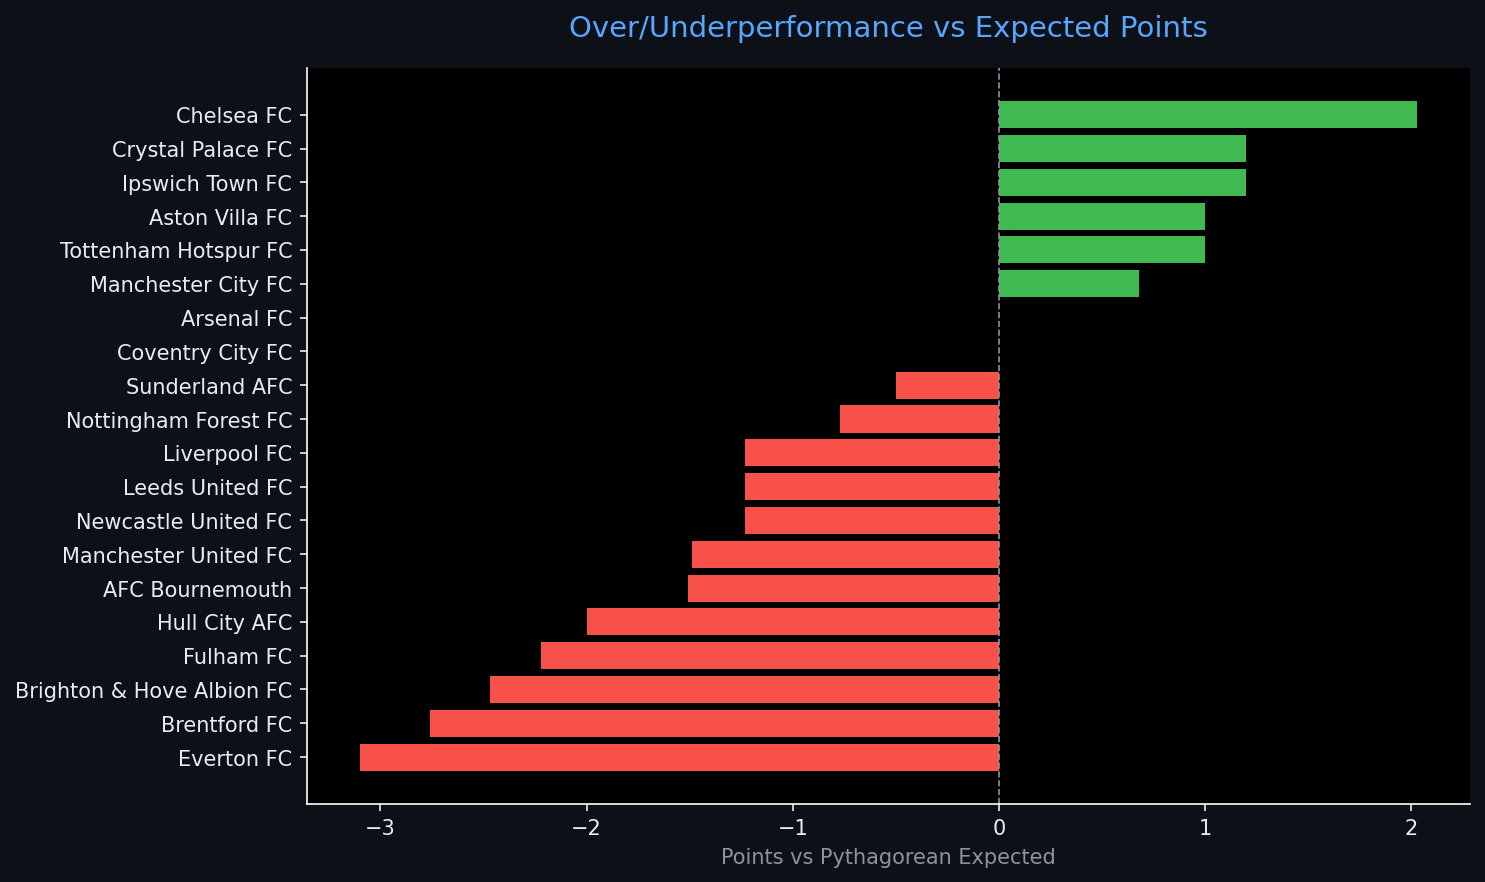
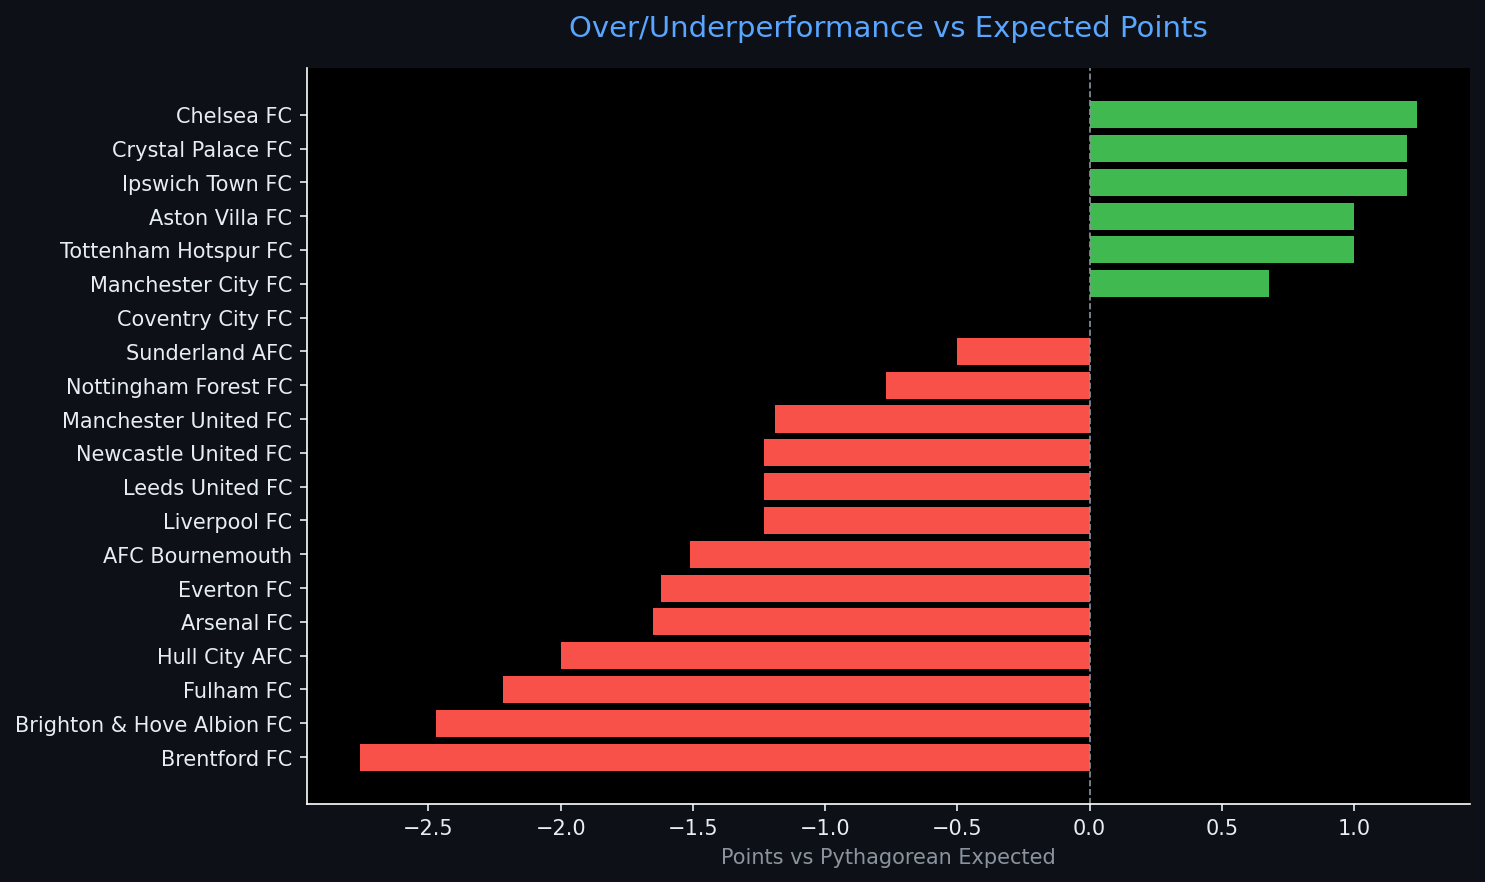
Automated ETL data update: 2026-09-06 16:38

diff --git a/reports/pipeline_report.html b/reports/pipeline_report.html
@@ -4,7 +4,7 @@
 <head>
     <meta charset="UTF-8">
     <meta name="viewport" content="width=device-width, initial-scale=1.0">
-    <title>Sports Data Pipeline Report — 2026-09-06 13:19</title>
+    <title>Sports Data Pipeline Report — 2026-09-06 16:38</title>
     <style>
         body { font-family: 'Segoe UI', sans-serif; background: #0d1117; color: #e6edf3; margin: 0; padding: 2rem; }
         h1   { color: #58a6ff; border-bottom: 1px solid #30363d; padding-bottom: 0.5rem; }
@@ -20,7 +20,7 @@
 </head>
 <body>
     <h1>⚽ Sports Data Pipeline — Automated Report</h1>
-    <p class="meta">Generated: 2026-09-06 13:19 UTC &nbsp;|&nbsp; Sport: <strong>football</strong> &nbsp;|&nbsp; Rows: <strong>20</strong></p>
+    <p class="meta">Generated: 2026-09-06 16:38 UTC &nbsp;|&nbsp; Sport: <strong>football</strong> &nbsp;|&nbsp; Rows: <strong>20</strong></p>
     <span class="badge">Pipeline v1.0.0</span>
     <h2>📊 Data Table</h2>
     <table class="dataframe data-table">
@@ -59,6 +59,21 @@
     </tr>
     <tr>
       <td>2</td>
+      <td>Arsenal FC</td>
+      <td>3</td>
+      <td>7</td>
+      <td>2</td>
+      <td>1</td>
+      <td>0</td>
+      <td>5</td>
+      <td>1</td>
+      <td>0.667</td>
+      <td>2.333</td>
+      <td>0.962</td>
+      <td>NaN</td>
+    </tr>
+    <tr>
+      <td>3</td>
       <td>Hull City AFC</td>
       <td>3</td>
       <td>7</td>
@@ -73,33 +88,18 @@
       <td>NaN</td>
     </tr>
     <tr>
-      <td>3</td>
-      <td>Arsenal FC</td>
-      <td>2</td>
-      <td>6</td>
-      <td>2</td>
-      <td>0</td>
-      <td>0</td>
-      <td>4</td>
-      <td>0</td>
-      <td>1.000</td>
-      <td>3.000</td>
-      <td>1.000</td>
-      <td>NaN</td>
-    </tr>
-    <tr>
       <td>4</td>
       <td>Chelsea FC</td>
-      <td>2</td>
-      <td>6</td>
-      <td>2</td>
-      <td>0</td>
-      <td>0</td>
+      <td>3</td>
       <td>7</td>
-      <td>5</td>
-      <td>1.000</td>
-      <td>3.000</td>
-      <td>0.662</td>
+      <td>2</td>
+      <td>1</td>
+      <td>0</td>
+      <td>8</td>
+      <td>6</td>
+      <td>0.667</td>
+      <td>2.333</td>
+      <td>0.640</td>
       <td>NaN</td>
     </tr>
     <tr>
@@ -155,11 +155,11 @@
       <td>1</td>
       <td>2</td>
       <td>0</td>
+      <td>5</td>
       <td>3</td>
-      <td>1</td>
       <td>0.333</td>
       <td>1.667</td>
-      <td>0.900</td>
+      <td>0.735</td>
       <td>NaN</td>
     </tr>
     <tr>
@@ -200,11 +200,11 @@
       <td>1</td>
       <td>1</td>
       <td>1</td>
-      <td>5</td>
-      <td>4</td>
+      <td>7</td>
+      <td>6</td>
       <td>0.333</td>
       <td>1.333</td>
-      <td>0.610</td>
+      <td>0.576</td>
       <td>NaN</td>
     </tr>
     <tr>
@@ -360,9 +360,9 @@
         
         <tr><td>Total Columns</td><td>29</td></tr>
         
-        <tr><td>Null Values</td><td>89</td></tr>
+        <tr><td>Null Values</td><td>91</td></tr>
         
-        <tr><td>Run Timestamp (UTC)</td><td>2026-09-06T13:19:49.998711</td></tr>
+        <tr><td>Run Timestamp (UTC)</td><td>2026-09-06T16:38:03.431544</td></tr>
         
         <tr><td>ML Features Ready</td><td>False</td></tr>
         
